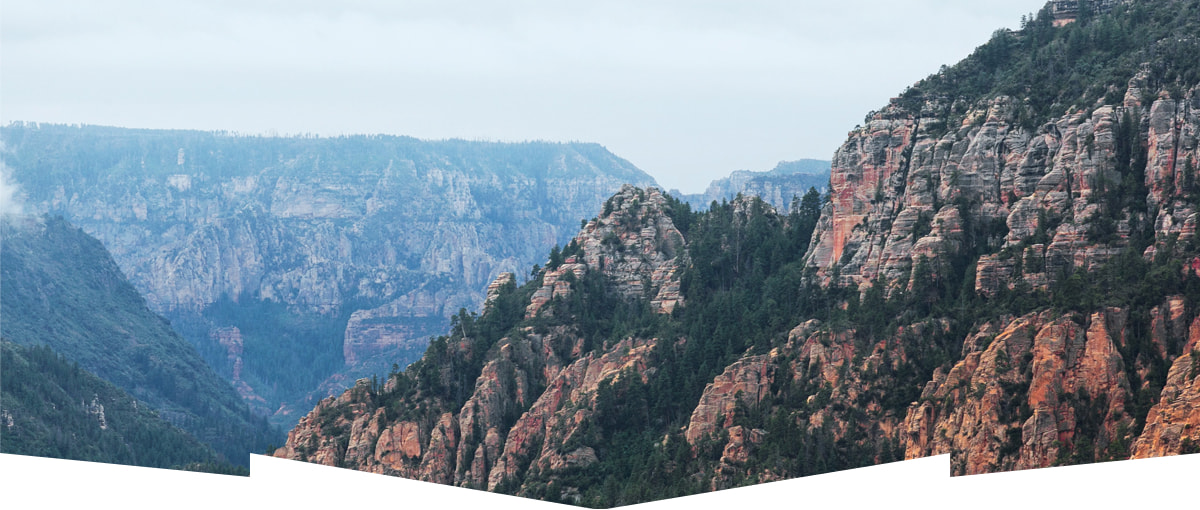
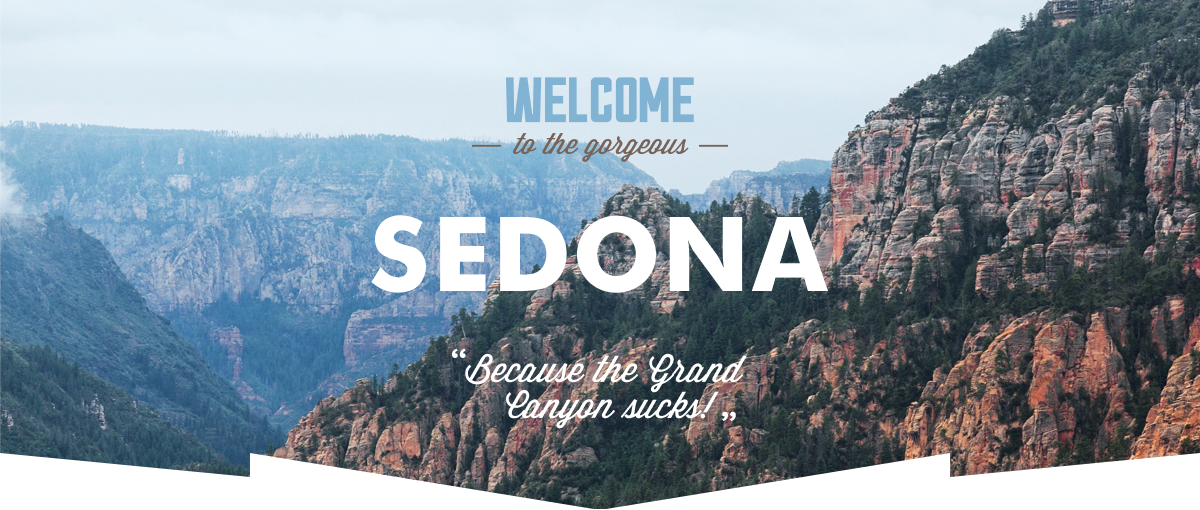
Правки, графика
Внесены правки указанные куратором.

Changed region(s): [[0.3083, 0.4118, 0.7092, 0.5882], [0.4008, 0.1471, 0.5858, 0.3235], [0.37, 0.6765, 0.6167, 0.8529]]

diff --git a/index.html b/index.html
@@ -24,9 +24,7 @@
   	<main>
   		<h1>SEDONA</h1>
   			<img src="images/Background.jpg" width="1200" height="510" alt="Фото шапки">
-  			<img src="images/welcome.png" width="255" height="84" alt="Добро пожаловать">
-  			<img src="images/Sedona.png" width="456" height="213" alt="Седона">
-
+  			
   		<section>
   			<h2>Седона — небольшой городок в Аризоне заслуживающий большего!</h2>
   			<p>Рассмотрим 5 причин, по которым Седона круче, чем гранд каньон!</p>
@@ -130,7 +128,7 @@
  		
  		<section>
  			<h2>HTML Academy</h2>
- 			<p>Website by<a><img src="images/logo_htmlacademy.png" width="115" height="33" alt="Логотип htmlacademy"></a></p>
+ 			<p>Website by<a><img src="images/logo_htmlacademy.svg" width="115" height="33" alt="Логотип htmlacademy"></a></p>
  		</section>
  	</footer>
 

diff --git a/catalog.html b/catalog.html
@@ -136,7 +136,7 @@
         
         <section>
           <h2>HTML Academy</h2>
-          <p>Website by<a><img src="images/logo_htmlacademy.png" width="115" height="33" alt="Логотип htmlacademy"></a></p>
+          <p>Website by<a><img src="images/logo_htmlacademy.svg" width="115" height="33" alt="Логотип htmlacademy"></a></p>
         </section>
     </footer>
   </body>
